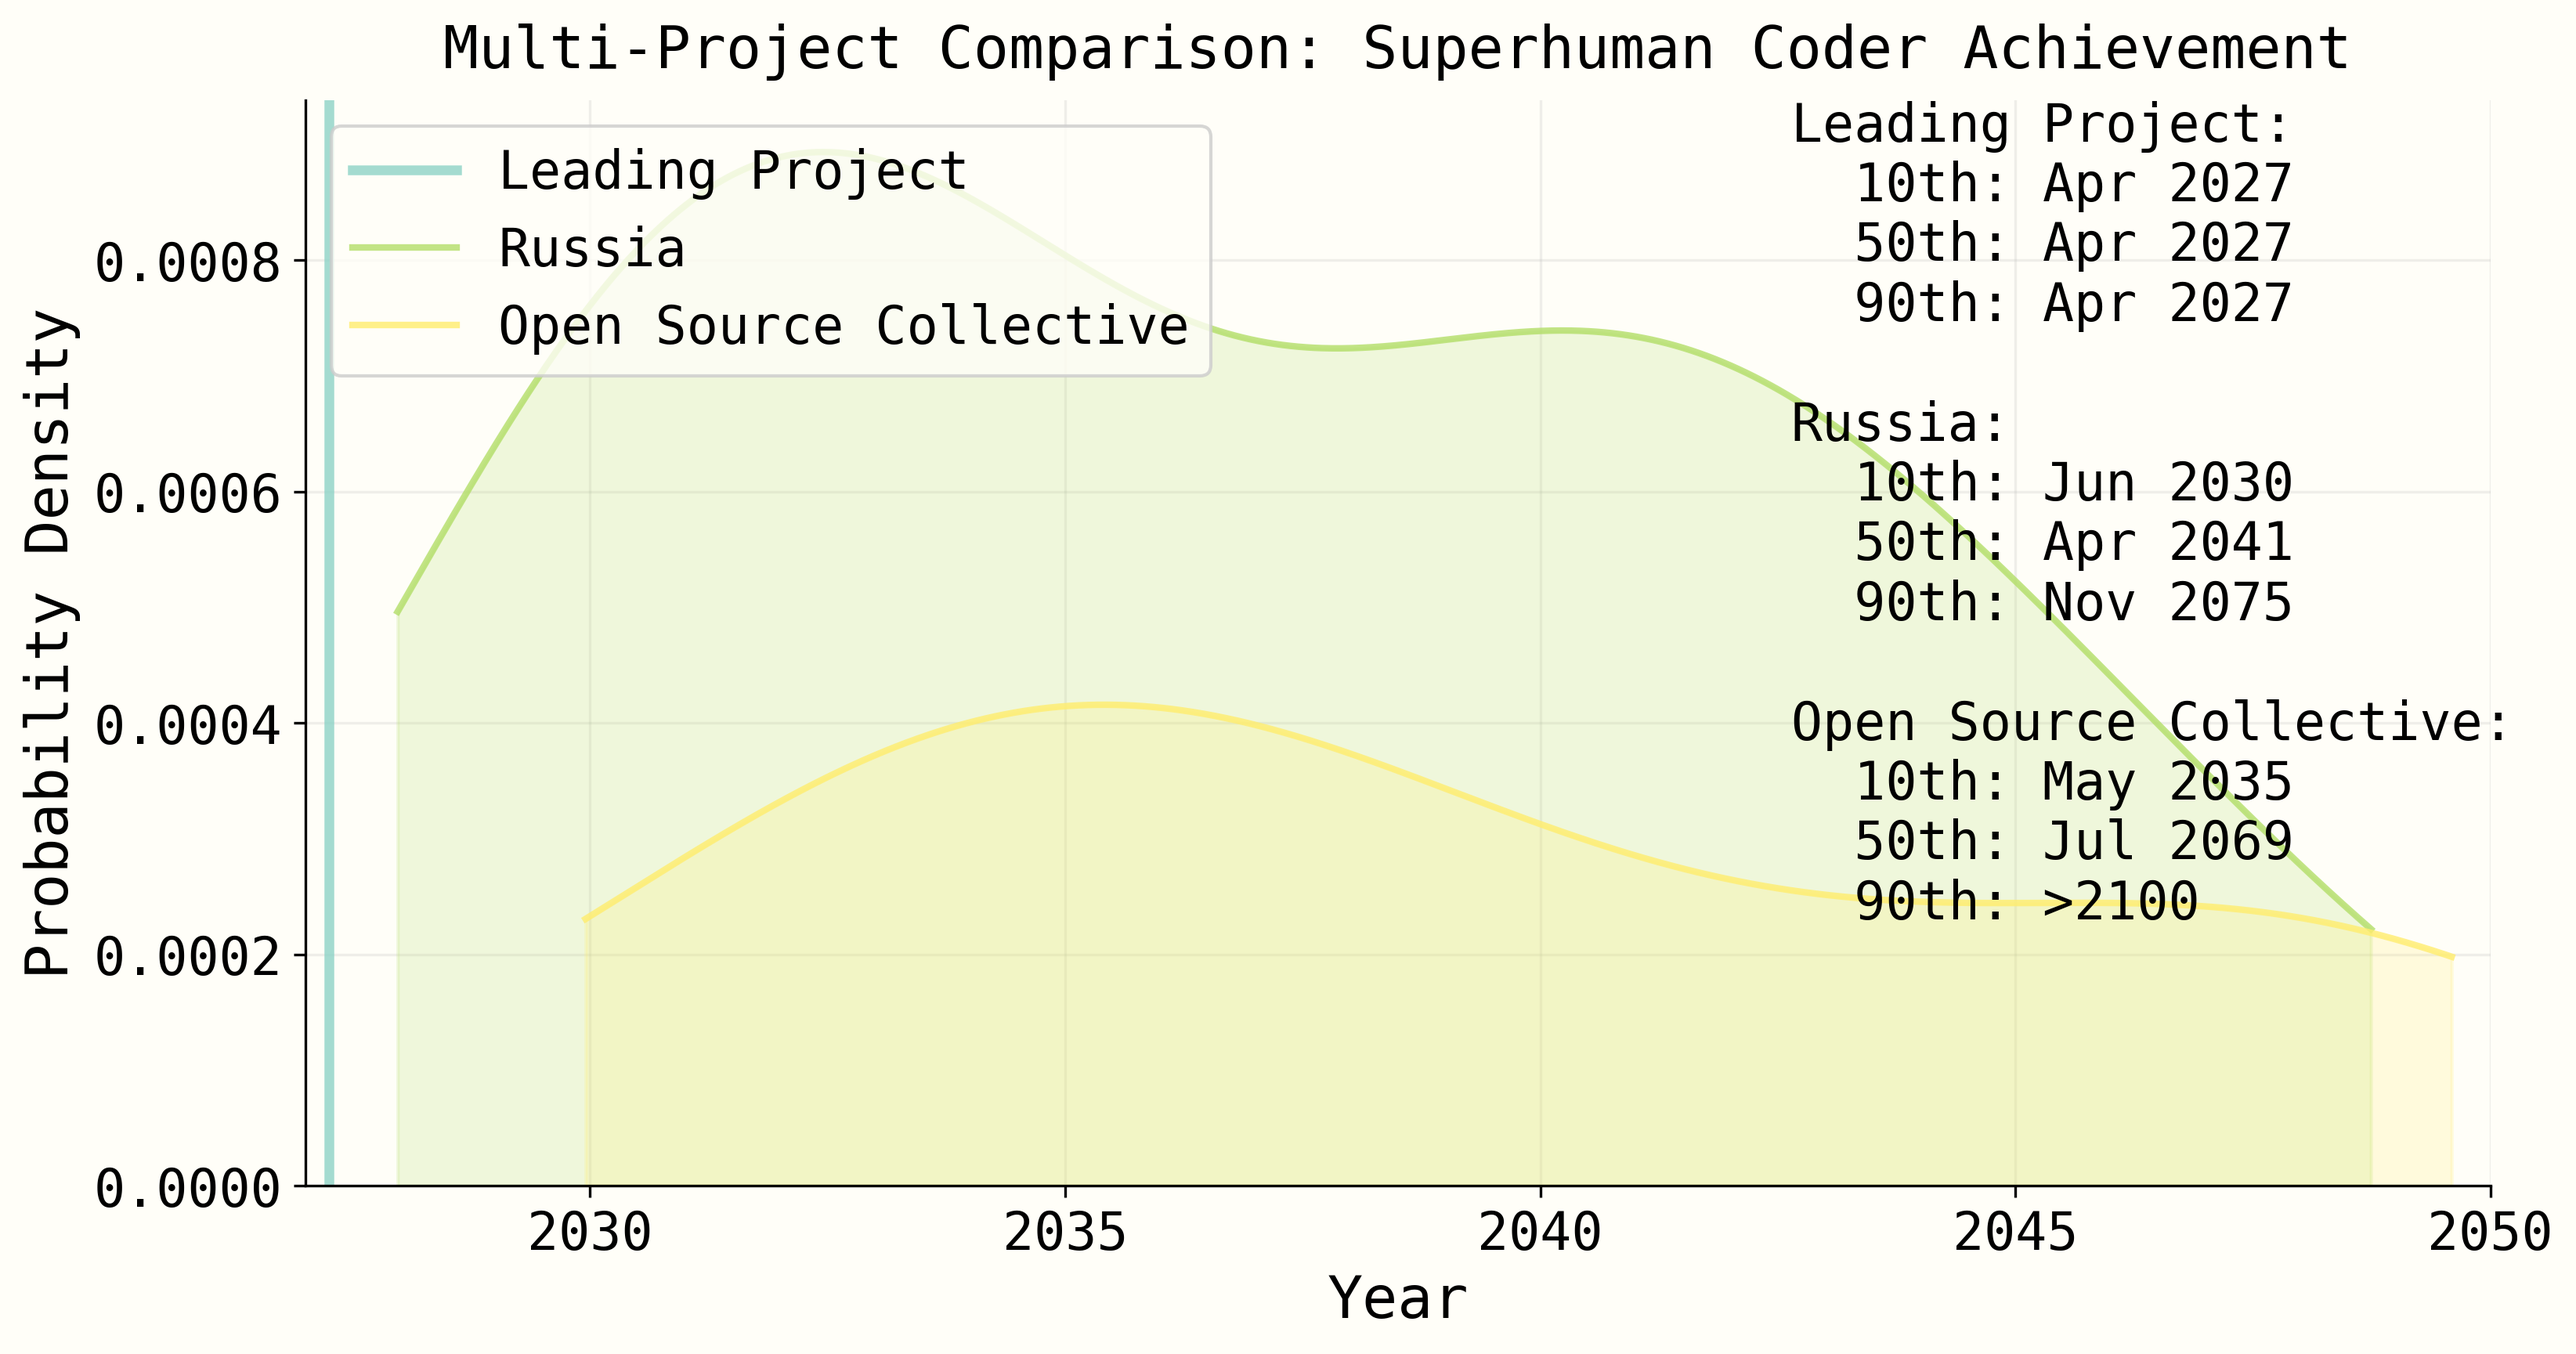
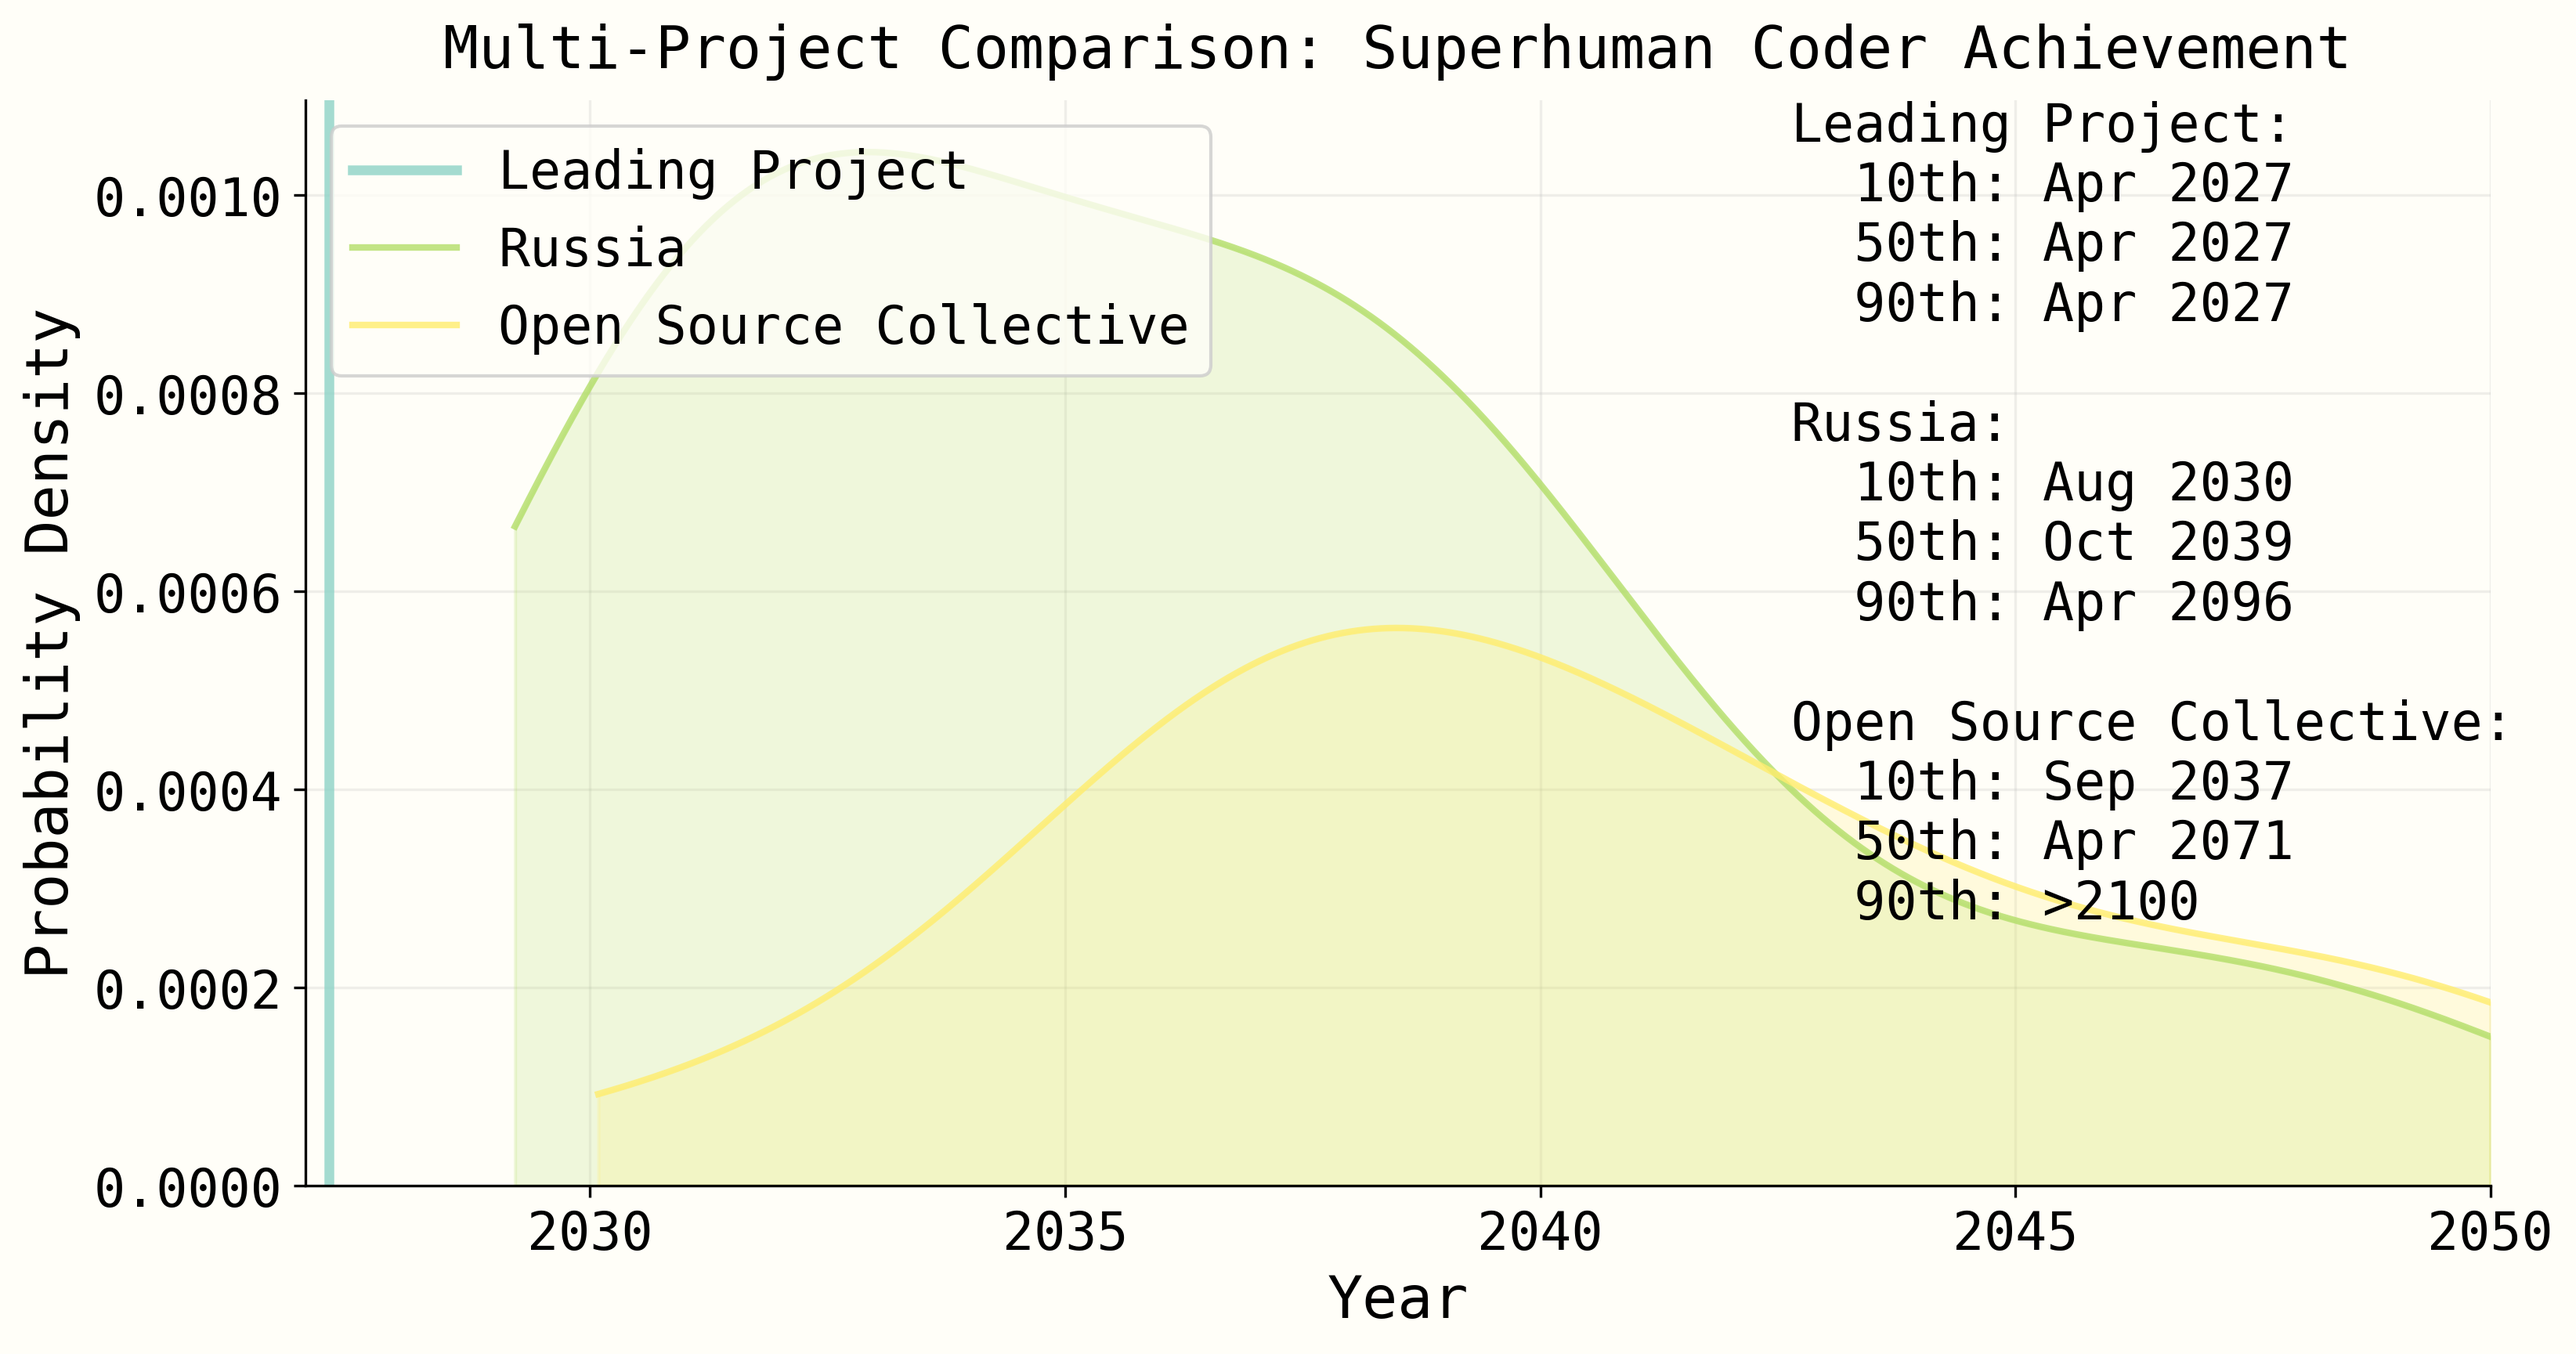
sar graph

diff --git a/takeoff/forecasting_takeoff.py b/takeoff/forecasting_takeoff.py
@@ -1282,7 +1282,6 @@ def create_project_delay_plot(all_project_results: list[dict], config: dict, plo
     # Track which project wins each simulation to determine actual winners
     project_wins = {project: 0 for project in projects_for_delay}
     total_valid_sims = 0
-    delay_plot_ties = 0
     
     for sim_idx, sim_results in enumerate(all_project_results):
         # Find the earliest SAR date across all projects in this simulation
@@ -1302,9 +1301,6 @@ def create_project_delay_plot(all_project_results: list[dict], config: dict, plo
             total_valid_sims += 1
             # Find the winner(s) for this simulation
             winners = [name for name, date in valid_projects.items() if date == earliest_sar_date]
-            if len(winners) > 1:
-                delay_plot_ties += 1
-                print(f"  DELAY PLOT TIE in simulation {sim_idx}: {winners}")
             
             for winner in winners:
                 project_wins[winner] += 1 / len(winners)  # Split wins if there's a tie
@@ -1314,53 +1310,6 @@ def create_project_delay_plot(all_project_results: list[dict], config: dict, plo
                     delay_days = (valid_projects[project_name] - earliest_sar_date).days
                     delay_years = delay_days / 365.0
                     project_delays[project_name].append(delay_years)
-    
-    print(f"\nDelay plot analysis found {delay_plot_ties} ties")
-    print(f"Leading Project wins in delay plot: {project_wins.get('Leading Project', 0):.2f} out of {total_valid_sims}")
-    print(f"Leading Project win rate in delay plot: {project_wins.get('Leading Project', 0) / total_valid_sims * 100:.1f}%")
-    
-    # Debug: Print delay statistics
-    print(f"\nDelay Statistics:")
-    for project_name in projects_for_delay:
-        delays = project_delays[project_name]
-        if delays:
-            print(f"{project_name}: min={min(delays):.2f}, max={max(delays):.2f}, mean={np.mean(delays):.2f}, count={len(delays)}")
-        else:
-            print(f"{project_name}: No delay data")
-    
-    # Debug: Check a few example simulations to see what's happening
-    print(f"\nExample simulation details (first 3 simulations):")
-    for sim_idx in range(min(3, len(all_project_results))):
-        print(f"\nSimulation {sim_idx}:")
-        sim_results = all_project_results[sim_idx]
-        
-        # Get progress rates for this simulation if available
-        if project_progress_samples:
-            print("  Progress rates:")
-            for project_name in projects:
-                if project_name in project_progress_samples:
-                    rate = project_progress_samples[project_name][sim_idx]
-                    print(f"    {project_name}: {rate:.3f}x")
-        
-        # Get SAR achievement dates
-        print("  SAR achievement dates:")
-        sar_dates = {}
-        for project_name in projects:
-            if project_name in sim_results and len(sim_results[project_name]) > 1:
-                sar_date = sim_results[project_name][1]
-                sar_dates[project_name] = sar_date
-                sar_year = sar_date.year + sar_date.timetuple().tm_yday/365
-                print(f"    {project_name}: {sar_year:.2f}")
-        
-        # Show winner and delays
-        if sar_dates:
-            earliest_date = min(sar_dates.values())
-            winner = [name for name, date in sar_dates.items() if date == earliest_date][0]
-            print(f"  Winner: {winner}")
-            print("  Delays:")
-            for project_name, date in sar_dates.items():
-                delay_years = (date - earliest_date).days / 365.0
-                print(f"    {project_name}: {delay_years:.3f} years")
     
     # Plot delay distributions for each project
     stats_text = ""
@@ -1375,27 +1324,6 @@ def create_project_delay_plot(all_project_results: list[dict], config: dict, plo
             p50 = np.percentile(delays, 50)
             p90 = np.percentile(delays, 90)
             
-            # Check if this project has meaningful delay variation
-            delay_variation = p90 - p10
-            
-            # Get project parameters for labeling - fix the parameter access
-            project_params = config["projects"][project_name]
-            if project_progress_samples and project_name in project_progress_samples:
-                # Use actual median from samples
-                median_rate = np.median(project_progress_samples[project_name])
-                rate_label = f"~{median_rate:.1f}x"
-            elif isinstance(project_params, dict) and "software_progress_rate" in project_params:
-                # New format - get median from config parameter range
-                params = project_params["software_progress_rate"]
-                if len(params) >= 3:  # [p_zero, lower, upper, ceiling]
-                    median_rate = (params[1] + params[2]) / 2  # (lower + upper) / 2
-                    rate_label = f"~{median_rate:.1f}x"
-                else:
-                    rate_label = "unknown rate"
-            else:
-                # Fallback
-                rate_label = "1.0x"
-            
             # Check if this project actually wins most/all simulations
             win_rate = project_wins[project_name] / total_valid_sims if total_valid_sims > 0 else 0
             
@@ -1406,13 +1334,13 @@ def create_project_delay_plot(all_project_results: list[dict], config: dict, plo
             if win_rate > 0.95 or len(non_zero_delays) < 5:
                 # Add a vertical line at the median delay position instead of a distribution
                 ax.axvline(x=p50, color=project_colors[proj_idx], linestyle='--', linewidth=2, 
-                          alpha=0.8, label=f"{project_name} ({rate_label}) - Wins {win_rate:.0%}")
+                          alpha=0.8, label=f"{project_name} - Wins {win_rate:.0%}")
                 
                 # Add to stats text
                 if p50 < 0.01:
-                    stats = f"{project_name} ({rate_label}):\n  Wins {win_rate:.0%} (0.00 yrs)"
+                    stats = f"{project_name}:\n  Wins {win_rate:.0%} (0.00 yrs)"
                 else:
-                    stats = f"{project_name} ({rate_label}):\n  Wins {win_rate:.0%}: {p50:.2f} yrs"
+                    stats = f"{project_name}:\n  Wins {win_rate:.0%}: {p50:.2f} yrs"
             else:
                 # Plot normal distribution for projects with meaningful delay variation or don't always win
                 # Use non-zero delays for better visualization
@@ -1426,8 +1354,8 @@ def create_project_delay_plot(all_project_results: list[dict], config: dict, plo
                     
                     # Determine appropriate x-axis range based on the non-zero data
                     max_delay_in_data = max(visible_data)
-                    # Ensure reasonable range
-                    MAX_DELAY = max(2.0, min(max(5, max_delay_in_data * 1.2), 20))
+                    # Ensure reasonable range - extend to show more of the distribution
+                    MAX_DELAY = max(5.0, min(max(10, max_delay_in_data * 1.2), 30))
                     
                     # Calculate KDE on non-zero data
                     try:
@@ -1444,9 +1372,9 @@ def create_project_delay_plot(all_project_results: list[dict], config: dict, plo
                         else:
                             density = np.zeros_like(density)
                         
-                        # Plot distribution
+                        # Plot distribution without progress rate labels
                         ax.plot(x_range, density, '-', color=project_colors[proj_idx], 
-                               label=f"{project_name} ({rate_label}) - Wins {win_rate:.0%}", linewidth=2, alpha=0.8)
+                               label=f"{project_name} - Wins {win_rate:.0%}", linewidth=2, alpha=0.8)
                         ax.fill_between(x_range, density, color=project_colors[proj_idx], alpha=0.2)
                         has_plotted_data = True
                         
@@ -1458,22 +1386,22 @@ def create_project_delay_plot(all_project_results: list[dict], config: dict, plo
                         
                         # Plot as step function
                         ax.step(bin_centers, hist, where='mid', color=project_colors[proj_idx], 
-                               label=f"{project_name} ({rate_label}) - Wins {win_rate:.0%}", linewidth=2, alpha=0.8)
+                               label=f"{project_name} - Wins {win_rate:.0%}", linewidth=2, alpha=0.8)
                         ax.fill_between(bin_centers, hist, step='mid', color=project_colors[proj_idx], alpha=0.2)
                     
                     # Add to stats text (use non-zero delay percentiles for better insight)
-                    if nz_p90 > 20:
+                    if nz_p90 > 25:
                         stats = (
-                            f"{project_name} ({rate_label}):\n"
+                            f"{project_name}:\n"
                             f"  Wins {win_rate:.0%}\n"
                             f"  When behind:\n"
                             f"    10th: {nz_p10:.2f} yrs\n"
                             f"    50th: {nz_p50:.2f} yrs\n"
-                            f"    90th: >20 yrs"
+                            f"    90th: >25 yrs"
                         )
                     else:
                         stats = (
-                            f"{project_name} ({rate_label}):\n"
+                            f"{project_name}:\n"
                             f"  Wins {win_rate:.0%}\n"
                             f"  When behind:\n"
                             f"    10th: {nz_p10:.2f} yrs\n"
@@ -1483,9 +1411,9 @@ def create_project_delay_plot(all_project_results: list[dict], config: dict, plo
                 else:
                     # Not enough non-zero data, fall back to vertical line
                     ax.axvline(x=p50, color=project_colors[proj_idx], linestyle='--', linewidth=2, 
-                              alpha=0.8, label=f"{project_name} ({rate_label}) - Wins {win_rate:.0%}")
+                              alpha=0.8, label=f"{project_name} - Wins {win_rate:.0%}")
                     
-                    stats = f"{project_name} ({rate_label}):\n  Wins {win_rate:.0%}"
+                    stats = f"{project_name}:\n  Wins {win_rate:.0%}"
         
             # Add to stats text
             if proj_idx == 0:
@@ -1495,15 +1423,8 @@ def create_project_delay_plot(all_project_results: list[dict], config: dict, plo
         elif delays:  # Has some data but not enough for full analysis
             win_rate = project_wins[project_name] / total_valid_sims if total_valid_sims > 0 else 0
             
-            # Get rate label
-            if project_progress_samples and project_name in project_progress_samples:
-                median_rate = np.median(project_progress_samples[project_name])
-                rate_label = f"~{median_rate:.1f}x"
-            else:
-                rate_label = "1.0x"
-            
-            # Add basic stats
-            stats = f"{project_name} ({rate_label}):\n  Wins {win_rate:.0%}"
+            # Add basic stats without progress rate labels
+            stats = f"{project_name}:\n  Wins {win_rate:.0%}"
             if proj_idx == 0:
                 stats_text = stats
             else:
@@ -1519,10 +1440,10 @@ def create_project_delay_plot(all_project_results: list[dict], config: dict, plo
     non_zero_delays = [delay for delays in project_delays.values() for delay in delays if delay > 0.01]
     if non_zero_delays:
         data_max = np.percentile(non_zero_delays, 95)  # Use 95th percentile to avoid outliers
-        # For small delays, ensure minimum visible range of 2 years, but focus on actual variation
-        final_xlim = max(2.0, min(data_max * 1.3, 15))  # Reasonable range
+        # For small delays, ensure minimum visible range but extend to show more data
+        final_xlim = max(5.0, min(data_max * 1.3, 30))  # Extended reasonable range
     else:
-        final_xlim = 5
+        final_xlim = 10
     
     # Add stats text
     if stats_text:
